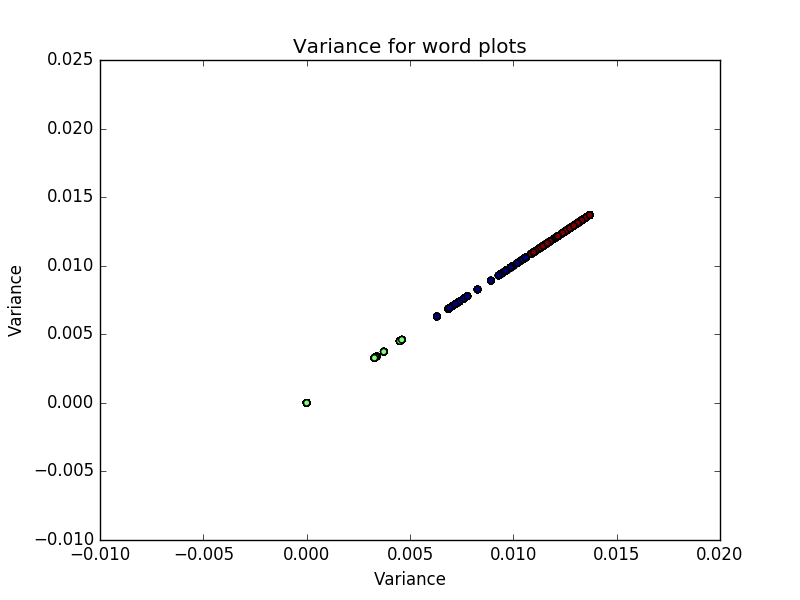
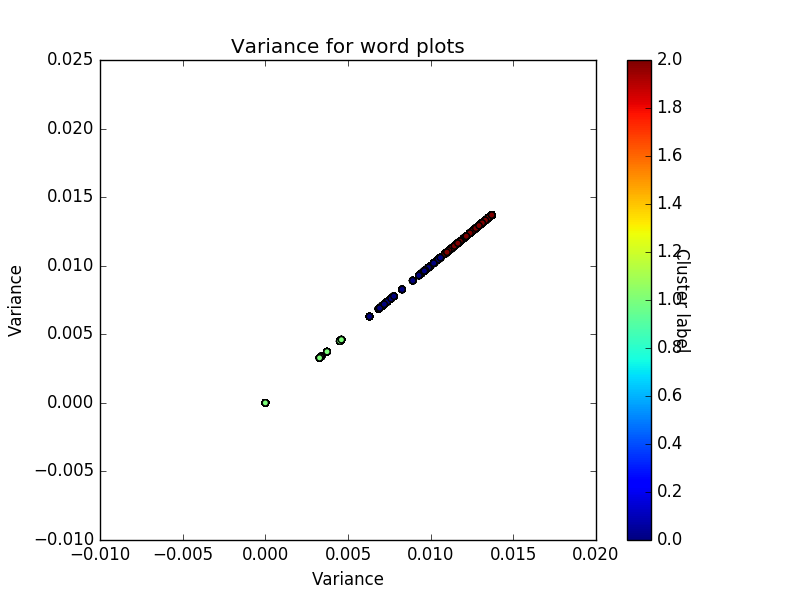
colorbar

diff --git a/karan/tfidf.py b/karan/tfidf.py
@@ -54,6 +54,8 @@ plt.figure()
 plt.scatter(varianceData, varianceData, c=kmeans.labels_)
 plt.xlabel("Variance")
 plt.ylabel("Variance")
+cbar = plt.colorbar()
+cbar.set_label("Cluster label", rotation=270)
 plt.title("Variance for word plots")
 plt.savefig("variance_scatter")
 
